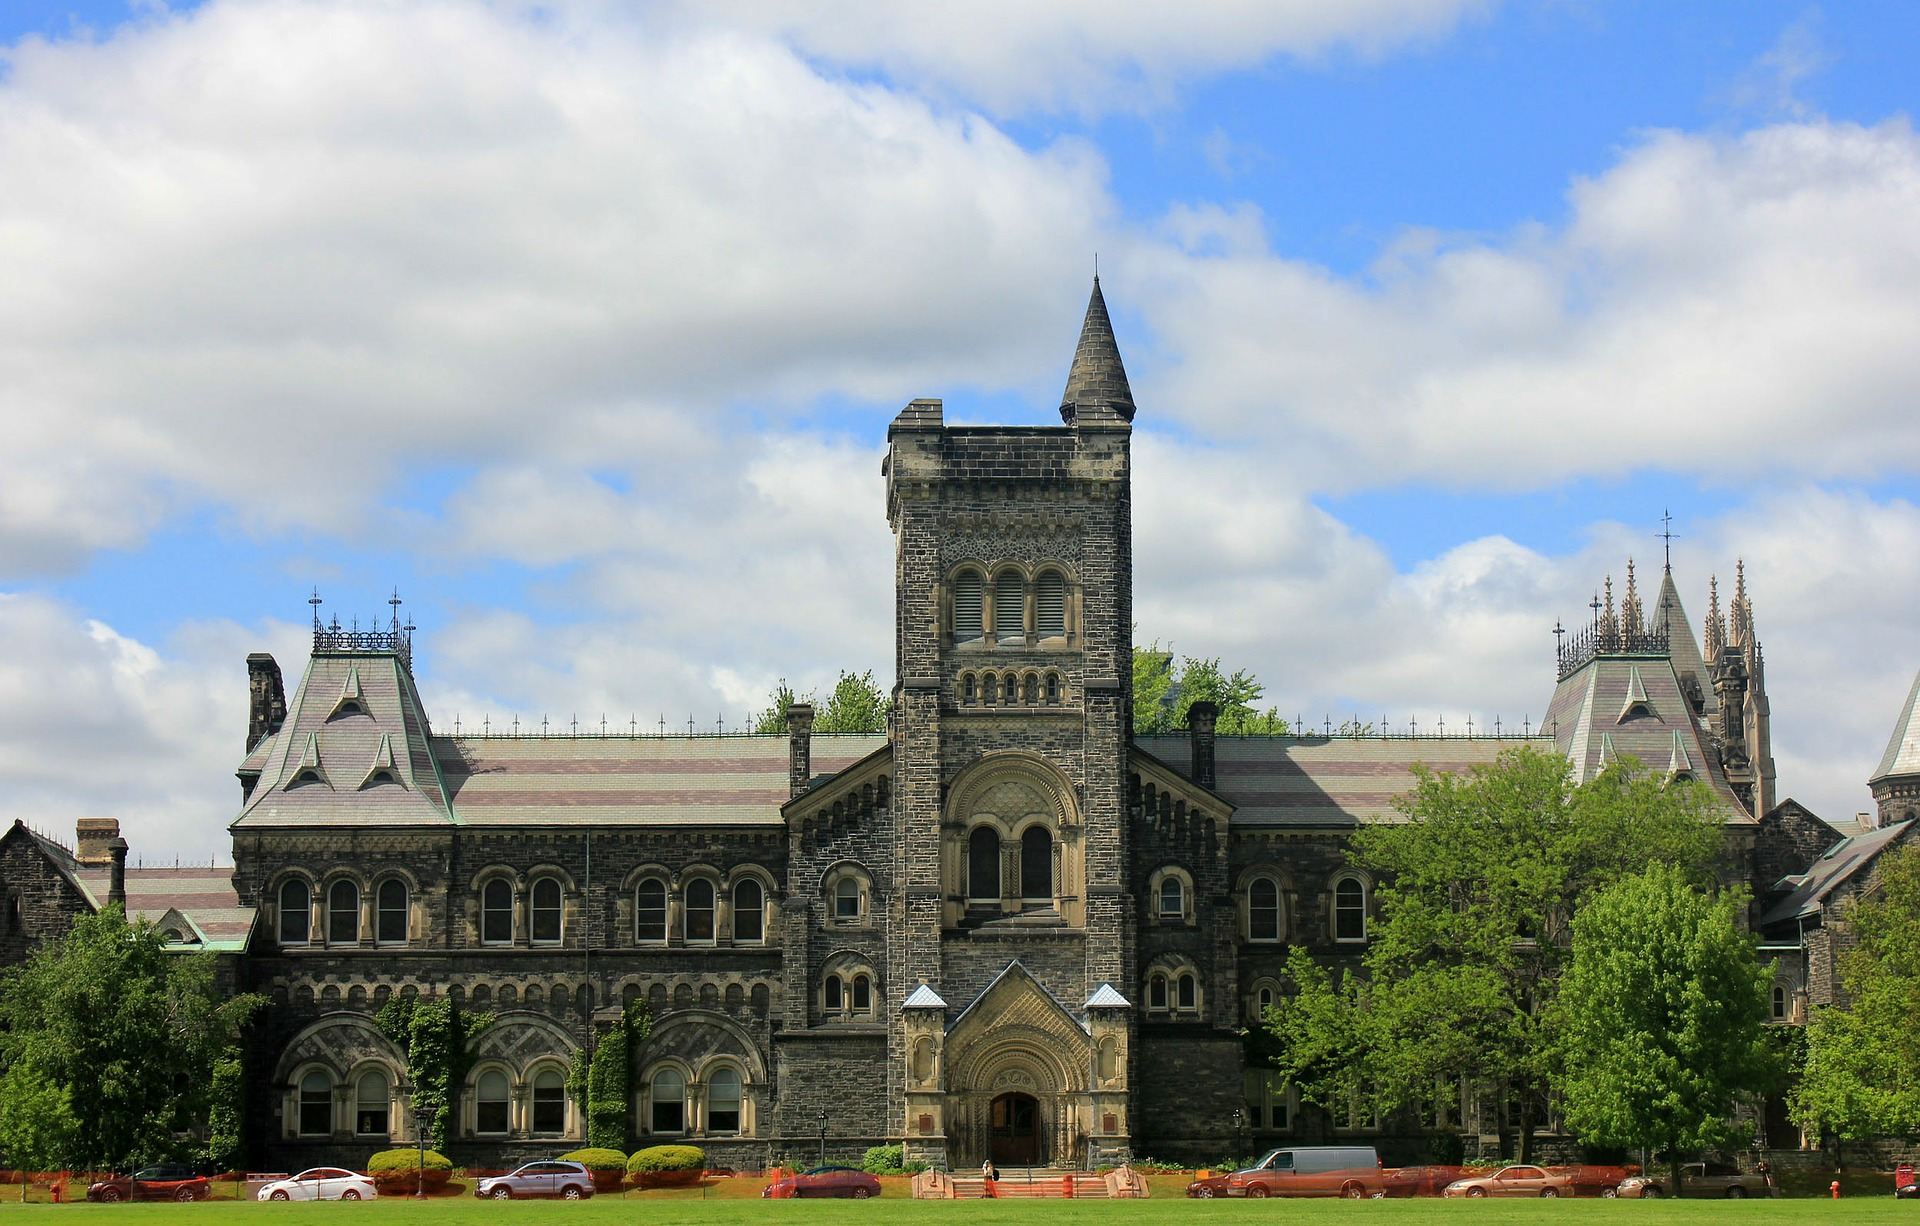
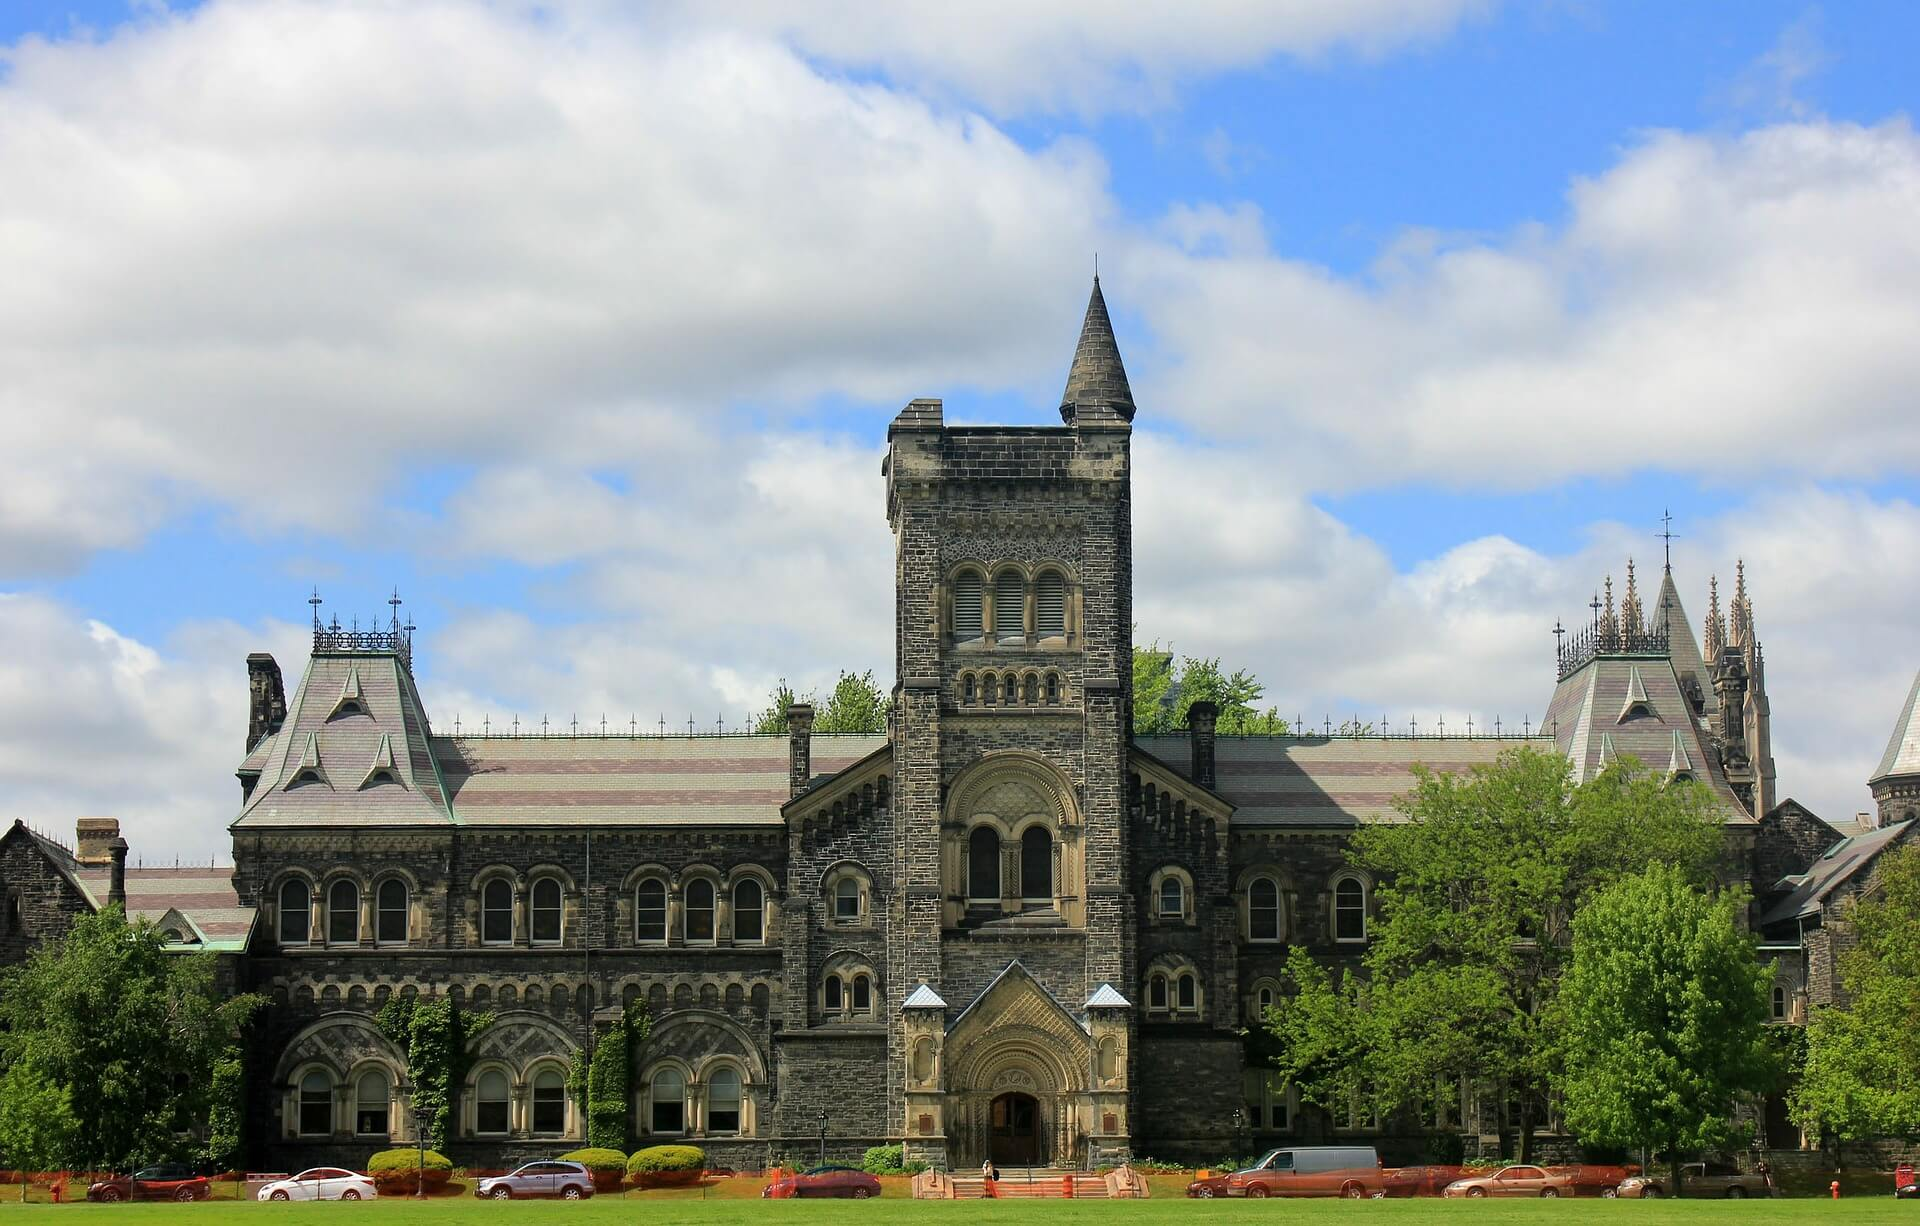
Compress img、Modify phone css position、Fix admin bug

diff --git a/app/assets/stylesheets/application.scss b/app/assets/stylesheets/application.scss
@@ -1044,7 +1044,6 @@ footer{
     }
 }
 .tel{
-    margin-left: 15px;
     margin-right: 15px;
 }
 @media (max-width: 992px) {

diff --git a/app/helpers/staff/users_helper.rb b/app/helpers/staff/users_helper.rb
@@ -1,0 +1,10 @@
+module Staff::UsersHelper
+  def without_department
+    # staff/users/home
+    if @department.nil?
+      t("welcome", name: @current_user.name)
+    else
+      t("welcome2", name: @current_user.name, apartment: @department.name)
+    end
+  end
+end
